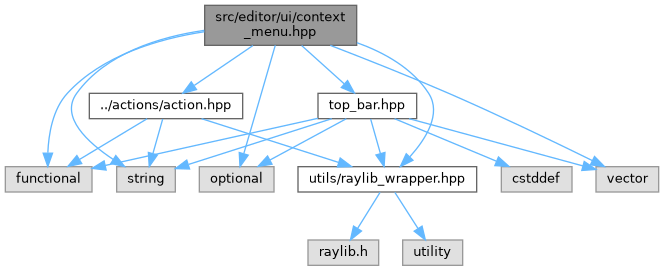
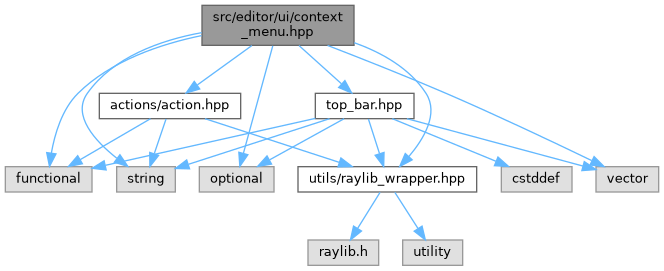
🚀 Deploy preview for pr-56 at 7f48239d1b2422666cf3b9e635f5a309f617d982

diff --git a/previews/pr-56/api/context__menu_8cpp.html b/previews/pr-56/api/context__menu_8cpp.html
@@ -103,39 +103,39 @@ Include dependency graph for context_menu.cpp:</div>
 <div class="dyncontent">
 <div class="center"><img src="context__menu_8cpp__incl.png" border="0" usemap="#asrc_2editor_2ui_2context__menu_8cpp" alt=""/></div>
 <map name="asrc_2editor_2ui_2context__menu_8cpp" id="asrc_2editor_2ui_2context__menu_8cpp">
-<area shape="rect" title="Implementation of ContextMenu." alt="" coords="274,5,426,45"/>
-<area shape="rect" href="context__menu_8hpp.html" title="ContextMenu UI component." alt="" coords="209,93,352,119"/>
-<area shape="poly" title=" " alt="" coords="335,47,302,84,298,81,331,44"/>
-<area shape="rect" title=" " alt="" coords="377,93,462,119"/>
-<area shape="poly" title=" " alt="" coords="369,44,402,81,398,84,365,47"/>
+<area shape="rect" title="Implementation of ContextMenu." alt="" coords="271,5,423,45"/>
+<area shape="rect" href="context__menu_8hpp.html" title="ContextMenu UI component." alt="" coords="207,93,349,119"/>
+<area shape="poly" title=" " alt="" coords="333,47,300,84,296,81,329,44"/>
+<area shape="rect" title=" " alt="" coords="374,93,459,119"/>
+<area shape="poly" title=" " alt="" coords="366,44,399,81,395,84,362,47"/>
 <area shape="rect" title=" " alt="" coords="5,240,92,265"/>
-<area shape="poly" title=" " alt="" coords="210,111,173,117,134,127,99,144,68,168,59,181,54,196,50,227,45,226,49,195,54,179,64,165,96,140,133,122,171,112,209,106"/>
+<area shape="poly" title=" " alt="" coords="207,115,174,122,140,132,108,148,80,168,62,196,54,227,49,226,57,194,76,165,105,143,138,127,173,116,206,110"/>
 <area shape="rect" title=" " alt="" coords="199,240,274,265"/>
-<area shape="poly" title=" " alt="" coords="280,120,247,228,242,226,275,118"/>
+<area shape="poly" title=" " alt="" coords="277,120,246,227,241,226,272,118"/>
 <area shape="rect" title=" " alt="" coords="117,240,175,265"/>
-<area shape="poly" title=" " alt="" coords="210,121,130,141,98,154,79,168,74,184,81,201,96,217,115,231,112,235,92,221,77,204,69,185,74,165,96,149,129,136,209,116"/>
+<area shape="poly" title=" " alt="" coords="207,112,174,118,142,129,113,145,90,168,85,184,90,200,103,216,119,230,115,234,99,219,86,202,79,184,85,165,110,141,140,124,173,113,206,107"/>
 <area shape="rect" title=" " alt="" coords="596,240,659,265"/>
-<area shape="poly" title=" " alt="" coords="317,116,450,164,594,231,592,236,448,169,316,121"/>
-<area shape="rect" href="action_8hpp.html" title="Action and Shortcut structures." alt="" coords="89,167,243,192"/>
-<area shape="poly" title=" " alt="" coords="264,121,198,162,195,157,261,116"/>
+<area shape="poly" title=" " alt="" coords="315,116,447,164,594,231,591,236,445,169,313,121"/>
+<area shape="rect" href="action_8hpp.html" title="Action and Shortcut structures." alt="" coords="99,167,241,192"/>
+<area shape="poly" title=" " alt="" coords="262,121,201,161,198,157,259,116"/>
 <area shape="rect" href="raylib__wrapper_8hpp_source.html" title=" " alt="" coords="298,240,477,265"/>
-<area shape="poly" title=" " alt="" coords="353,116,396,134,415,148,431,165,436,182,433,200,412,231,408,228,428,198,431,183,426,168,412,151,393,138,351,121"/>
-<area shape="rect" href="top__bar_8hpp.html" title="Declaration of the TopBar class, the menu bar drawn at the top of the editor window,..." alt="" coords="318,167,417,192"/>
-<area shape="poly" title=" " alt="" coords="296,117,344,156,341,160,293,121"/>
-<area shape="poly" title=" " alt="" coords="149,194,81,235,78,230,146,190"/>
-<area shape="poly" title=" " alt="" coords="165,193,155,228,150,226,160,192"/>
-<area shape="poly" title=" " alt="" coords="202,189,340,233,338,238,201,195"/>
+<area shape="poly" title=" " alt="" coords="351,116,393,134,413,148,428,165,434,182,431,200,411,231,407,228,426,198,429,183,424,168,409,151,391,138,349,121"/>
+<area shape="rect" href="top__bar_8hpp.html" title="Declaration of the TopBar class, the menu bar drawn at the top of the editor window,..." alt="" coords="315,167,414,192"/>
+<area shape="poly" title=" " alt="" coords="294,117,342,156,338,160,290,121"/>
+<area shape="poly" title=" " alt="" coords="152,194,81,235,79,231,149,190"/>
+<area shape="poly" title=" " alt="" coords="169,193,157,228,152,226,164,191"/>
+<area shape="poly" title=" " alt="" coords="206,189,340,233,338,238,204,195"/>
 <area shape="rect" title=" " alt="" coords="308,313,379,339"/>
 <area shape="poly" title=" " alt="" coords="382,267,360,303,355,300,378,264"/>
 <area shape="rect" title=" " alt="" coords="403,313,463,339"/>
 <area shape="poly" title=" " alt="" coords="397,264,420,300,416,303,393,267"/>
-<area shape="poly" title=" " alt="" coords="318,194,106,241,105,236,317,189"/>
-<area shape="poly" title=" " alt="" coords="348,194,271,236,269,231,345,190"/>
-<area shape="poly" title=" " alt="" coords="333,195,190,240,188,235,331,189"/>
-<area shape="poly" title=" " alt="" coords="410,189,584,237,582,242,408,195"/>
-<area shape="poly" title=" " alt="" coords="373,192,383,226,378,228,368,193"/>
+<area shape="poly" title=" " alt="" coords="316,194,106,241,105,236,315,189"/>
+<area shape="poly" title=" " alt="" coords="345,194,271,235,269,231,343,190"/>
+<area shape="poly" title=" " alt="" coords="330,195,189,240,188,235,329,189"/>
+<area shape="poly" title=" " alt="" coords="408,189,584,237,582,242,406,195"/>
+<area shape="poly" title=" " alt="" coords="371,192,382,226,377,228,366,193"/>
 <area shape="rect" title=" " alt="" coords="501,240,572,265"/>
-<area shape="poly" title=" " alt="" coords="396,190,497,232,495,237,394,194"/>
+<area shape="poly" title=" " alt="" coords="393,190,497,232,495,237,391,194"/>
 </map>
 </div>
 </div><a name="details" id="details"></a><h2 class="groupheader">Detailed Description</h2>

diff --git a/previews/pr-56/api/context__menu_8hpp.html b/previews/pr-56/api/context__menu_8hpp.html
@@ -102,7 +102,7 @@ $(document).ready(function(){initNavTree('context__menu_8hpp.html',''); initResi
 <code>#include &lt;optional&gt;</code><br />
 <code>#include &lt;string&gt;</code><br />
 <code>#include &lt;vector&gt;</code><br />
-<code>#include &quot;<a class="el" href="action_8hpp_source.html">../actions/action.hpp</a>&quot;</code><br />
+<code>#include &quot;<a class="el" href="action_8hpp_source.html">actions/action.hpp</a>&quot;</code><br />
 <code>#include &quot;<a class="el" href="top__bar_8hpp_source.html">top_bar.hpp</a>&quot;</code><br />
 <code>#include &quot;utils/raylib_wrapper.hpp&quot;</code><br />
 </div><div class="textblock"><div class="dynheader">
@@ -110,35 +110,35 @@ Include dependency graph for context_menu.hpp:</div>
 <div class="dyncontent">
 <div class="center"><img src="context__menu_8hpp__incl.png" border="0" usemap="#asrc_2editor_2ui_2context__menu_8hpp" alt=""/></div>
 <map name="asrc_2editor_2ui_2context__menu_8hpp" id="asrc_2editor_2ui_2context__menu_8hpp">
-<area shape="rect" title="ContextMenu UI component." alt="" coords="205,5,357,45"/>
+<area shape="rect" title="ContextMenu UI component." alt="" coords="202,5,354,45"/>
 <area shape="rect" title=" " alt="" coords="5,167,92,192"/>
-<area shape="poly" title=" " alt="" coords="205,34,169,42,133,53,98,71,69,95,61,108,55,123,50,153,45,152,50,121,56,105,65,92,96,66,131,48,168,36,204,29"/>
+<area shape="poly" title=" " alt="" coords="202,38,138,58,107,74,80,95,62,123,54,154,49,152,57,121,76,92,104,70,136,53,201,33"/>
 <area shape="rect" title=" " alt="" coords="199,167,274,192"/>
-<area shape="poly" title=" " alt="" coords="278,46,257,119,246,154,241,153,251,118,273,45"/>
+<area shape="poly" title=" " alt="" coords="275,47,246,154,241,153,270,45"/>
 <area shape="rect" title=" " alt="" coords="117,167,175,192"/>
-<area shape="poly" title=" " alt="" coords="205,33,170,40,136,52,104,70,79,95,74,111,81,128,96,143,115,157,112,162,93,147,77,130,69,111,74,92,101,65,133,47,169,35,204,28"/>
+<area shape="poly" title=" " alt="" coords="202,35,171,43,140,55,112,72,90,95,85,110,90,126,103,142,119,156,115,160,99,146,86,129,80,110,85,92,109,67,138,50,169,38,201,30"/>
 <area shape="rect" title=" " alt="" coords="596,167,659,192"/>
-<area shape="poly" title=" " alt="" coords="331,43,450,91,593,158,591,163,448,96,329,48"/>
-<area shape="rect" href="action_8hpp.html" title="Action and Shortcut structures." alt="" coords="89,93,243,119"/>
-<area shape="poly" title=" " alt="" coords="254,48,196,88,193,83,251,43"/>
+<area shape="poly" title=" " alt="" coords="329,43,447,91,593,158,591,163,445,96,327,48"/>
+<area shape="rect" href="action_8hpp.html" title="Action and Shortcut structures." alt="" coords="99,93,241,119"/>
+<area shape="poly" title=" " alt="" coords="253,48,199,87,196,83,250,43"/>
 <area shape="rect" href="raylib__wrapper_8hpp_source.html" title=" " alt="" coords="298,167,477,192"/>
-<area shape="poly" title=" " alt="" coords="358,40,398,60,416,74,431,92,436,109,433,127,412,158,408,155,428,125,431,110,426,95,413,78,396,65,356,45"/>
-<area shape="rect" href="top__bar_8hpp.html" title="Declaration of the TopBar class, the menu bar drawn at the top of the editor window,..." alt="" coords="318,93,417,119"/>
-<area shape="poly" title=" " alt="" coords="303,44,346,82,342,86,300,48"/>
-<area shape="poly" title=" " alt="" coords="149,121,81,162,78,157,146,116"/>
-<area shape="poly" title=" " alt="" coords="165,120,155,154,150,153,160,118"/>
-<area shape="poly" title=" " alt="" coords="202,116,340,160,338,165,201,121"/>
+<area shape="poly" title=" " alt="" coords="355,40,396,60,414,74,428,92,434,109,430,127,411,158,407,155,425,125,428,109,424,95,410,78,393,65,353,45"/>
+<area shape="rect" href="top__bar_8hpp.html" title="Declaration of the TopBar class, the menu bar drawn at the top of the editor window,..." alt="" coords="315,93,414,119"/>
+<area shape="poly" title=" " alt="" coords="301,44,343,82,340,86,297,48"/>
+<area shape="poly" title=" " alt="" coords="152,121,81,162,79,157,149,116"/>
+<area shape="poly" title=" " alt="" coords="169,120,157,154,152,153,164,118"/>
+<area shape="poly" title=" " alt="" coords="206,116,340,160,338,165,204,121"/>
 <area shape="rect" title=" " alt="" coords="308,240,379,265"/>
 <area shape="poly" title=" " alt="" coords="382,194,360,230,355,227,378,191"/>
 <area shape="rect" title=" " alt="" coords="403,240,463,265"/>
 <area shape="poly" title=" " alt="" coords="397,191,420,227,416,230,393,194"/>
-<area shape="poly" title=" " alt="" coords="318,121,106,168,105,163,317,116"/>
-<area shape="poly" title=" " alt="" coords="348,121,271,162,269,158,345,116"/>
-<area shape="poly" title=" " alt="" coords="333,121,190,167,188,162,331,116"/>
-<area shape="poly" title=" " alt="" coords="410,116,584,163,582,169,408,121"/>
-<area shape="poly" title=" " alt="" coords="373,118,383,153,378,154,368,120"/>
+<area shape="poly" title=" " alt="" coords="316,121,106,168,105,163,315,116"/>
+<area shape="poly" title=" " alt="" coords="345,121,271,162,269,157,343,116"/>
+<area shape="poly" title=" " alt="" coords="330,121,189,167,188,162,329,116"/>
+<area shape="poly" title=" " alt="" coords="408,116,584,163,582,169,406,121"/>
+<area shape="poly" title=" " alt="" coords="371,118,382,153,377,154,366,120"/>
 <area shape="rect" title=" " alt="" coords="501,167,572,192"/>
-<area shape="poly" title=" " alt="" coords="396,116,497,159,495,164,394,121"/>
+<area shape="poly" title=" " alt="" coords="393,116,497,159,495,164,391,121"/>
 </map>
 </div>
 </div><div class="textblock"><div class="dynheader">

diff --git a/previews/pr-56/api/context__menu_8hpp_source.html b/previews/pr-56/api/context__menu_8hpp_source.html
@@ -106,7 +106,7 @@ $(document).ready(function(){initNavTree('context__menu_8hpp_source.html',''); i
 <div class="line"><a id="l00013" name="l00013"></a><span class="lineno">   13</span><span class="preprocessor">#include &lt;string&gt;</span></div>
 <div class="line"><a id="l00014" name="l00014"></a><span class="lineno">   14</span><span class="preprocessor">#include &lt;vector&gt;</span></div>
 <div class="line"><a id="l00015" name="l00015"></a><span class="lineno">   15</span> </div>
-<div class="line"><a id="l00016" name="l00016"></a><span class="lineno">   16</span><span class="preprocessor">#include &quot;../actions/action.hpp&quot;</span></div>
+<div class="line"><a id="l00016" name="l00016"></a><span class="lineno">   16</span><span class="preprocessor">#include &quot;<a class="code" href="action_8hpp.html">actions/action.hpp</a>&quot;</span></div>
 <div class="line"><a id="l00017" name="l00017"></a><span class="lineno">   17</span><span class="preprocessor">#include &quot;<a class="code" href="top__bar_8hpp.html">top_bar.hpp</a>&quot;</span>  <span class="comment">// Reuse TopBarStyle maybe?</span></div>
 <div class="line"><a id="l00018" name="l00018"></a><span class="lineno">   18</span><span class="preprocessor">#include &quot;utils/raylib_wrapper.hpp&quot;</span></div>
 <div class="line"><a id="l00019" name="l00019"></a><span class="lineno">   19</span> </div>
@@ -180,6 +180,7 @@ $(document).ready(function(){initNavTree('context__menu_8hpp_source.html',''); i
 </div>
 <div class="line"><a id="l00114" name="l00114"></a><span class="lineno">  114</span> </div>
 <div class="line"><a id="l00115" name="l00115"></a><span class="lineno">  115</span>}  <span class="comment">// namespace editor::ui</span></div>
+<div class="ttc" id="aaction_8hpp_html"><div class="ttname"><a href="action_8hpp.html">action.hpp</a></div><div class="ttdoc">Action and Shortcut structures.</div></div>
 <div class="ttc" id="aclasseditor_1_1ui_1_1ContextMenu_html"><div class="ttname"><a href="classeditor_1_1ui_1_1ContextMenu.html">editor::ui::ContextMenu</a></div><div class="ttdoc">A floating context menu that appears at the cursor position.</div><div class="ttdef"><b>Definition</b> context_menu.hpp:51</div></div>
 <div class="ttc" id="aclasseditor_1_1ui_1_1ContextMenu_html_a091741b1b3336519a5a468d4c10fe453"><div class="ttname"><a href="classeditor_1_1ui_1_1ContextMenu.html#a091741b1b3336519a5a468d4c10fe453">editor::ui::ContextMenu::Draw</a></div><div class="ttdeci">void Draw() const</div><div class="ttdoc">Draws the menu.</div><div class="ttdef"><b>Definition</b> context_menu.cpp:142</div></div>
 <div class="ttc" id="aclasseditor_1_1ui_1_1ContextMenu_html_a1733f5977fbc7c3ecdf7a6017aa073aa"><div class="ttname"><a href="classeditor_1_1ui_1_1ContextMenu.html#a1733f5977fbc7c3ecdf7a6017aa073aa">editor::ui::ContextMenu::AddSeparator</a></div><div class="ttdeci">ContextMenu &amp; AddSeparator()</div><div class="ttdoc">Adds a separator.</div><div class="ttdef"><b>Definition</b> context_menu.cpp:32</div></div>
